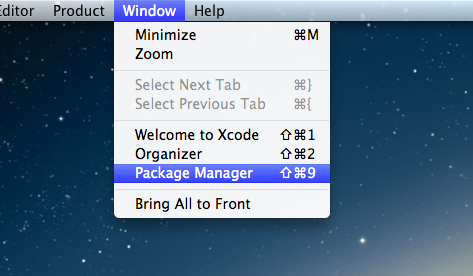
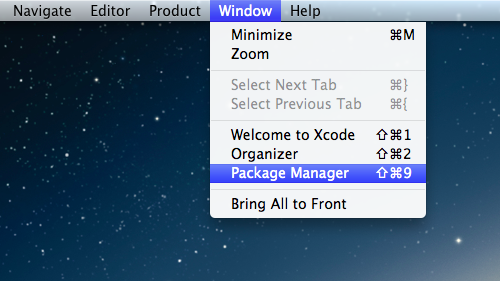
Update images

diff --git a/index.html b/index.html
@@ -25,7 +25,7 @@
 		<section class="title-section">
 			<h2>A Package Manager for Xcode</h2>
 			<p>Alcatraz is an open-source package manager for Xcode. It lets you discover and install plugins, templates and color schemes without the need for manually cloning or copying files. It installs itself as a part of Xcode and it feels like home.</p>
-			<img src="images/plugin.png"/>
+			<div class="center"><img src="images/plugin.png"/></div>
 		</section>
 		<section>
 			<h2>Installation</h2>
@@ -43,7 +43,7 @@ curl -L http://goo.gl/xfmmt | tar xv -C ~/Library/Application\ Support/Developer
 		<section>
 			<h2>Usage</h2>
 			<p>Select Package Manager from the Window menu, then check or uncheck packages to install or remove them. You'll need to restart Xcode after installing certain packages, as indicated after installation.</p>
-			<img src="images/menu.png"/>
+			<div class="center"><img src="images/menu.png"/></div>
 		</section>
 		<section>
 			<h2>I want to submit my package!</h2>

diff --git a/stylesheets/app.css b/stylesheets/app.css
@@ -94,6 +94,11 @@ footer {
   padding-top: 109px;
 }
 
+.center {
+  width: 100%;
+  text-align: center;
+}
+
 #people {
   float: right;
 }
